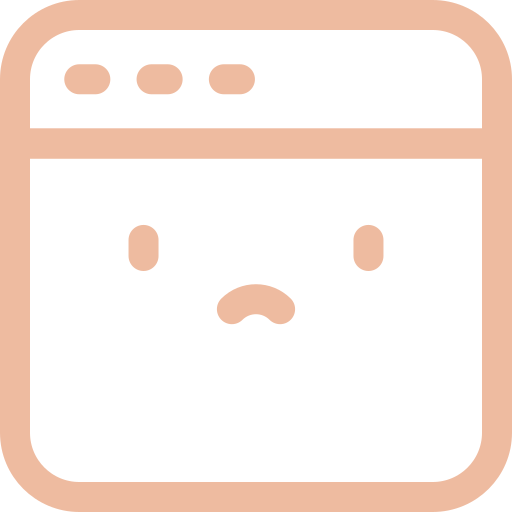
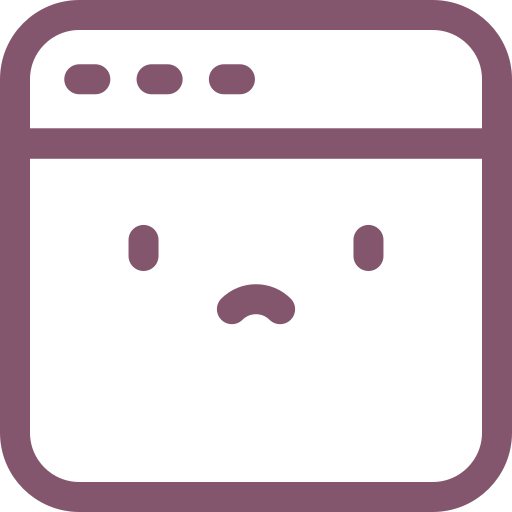
Style changes for not found page and removing border radius across site

diff --git a/src/components/NotFound.js b/src/components/NotFound.js
@@ -14,7 +14,8 @@ const NotFound = () => {
                     <Card.Body className={`${styles.NoResults}`}>
                         <Asset
                             src={NoResults}
-                            message={`Looks like you're lost!\nClick here to go home.`}
+                            height={150}
+                            message={`Looks like you're lost!\nClick or tap here to go home.`}
                         />
                     </Card.Body>
                 </Link>

diff --git a/src/styles/NotFound.module.css b/src/styles/NotFound.module.css
@@ -2,18 +2,15 @@
     height: auto;
     width: 20rem;
     margin: auto;
-    background-color: #915f78;
-    border-radius: 25px;
-    box-shadow: rgba(0, 0, 0, 0.24) 0px 3px 8px;
+    background-color: transparent;
+    border: none;
 }
 
 .NoResults {
     display: inline;
     text-align: center;
-    /* margin: 0; */
     font-size: 20px;
     font-weight: 600;
-    color: #eebba0;
-    background-color: transparent;
+    color: #915f78;
     border: none;
 }

diff --git a/src/styles/PostInteractions.module.css b/src/styles/PostInteractions.module.css
@@ -2,7 +2,6 @@
     font-weight: bold;
     background-color: #f2f0f3;
     border: none;
-    border-radius: 2px;
     margin-bottom: 16px;
     text-align: center;
     box-shadow: rgba(0, 0, 0, 0.24) 0px 3px 8px;

diff --git a/src/styles/Post.module.css b/src/styles/Post.module.css
@@ -1,7 +1,6 @@
 .Post {
     background-color: #f2f0f3;
     border: none;
-    border-radius: 2px;
     margin-bottom: 16px;
     text-align: center;
     box-shadow: rgba(0, 0, 0, 0.24) 0px 3px 8px;

diff --git a/src/styles/FollowingProfiles.module.css b/src/styles/FollowingProfiles.module.css
@@ -6,7 +6,6 @@
 .List {
     background-color: #f2f0f3;
     border: none;
-    border-radius: 2px;
     margin-bottom: 16px;
     box-shadow: rgba(0, 0, 0, 0.24) 0px 3px 8px;
 }
